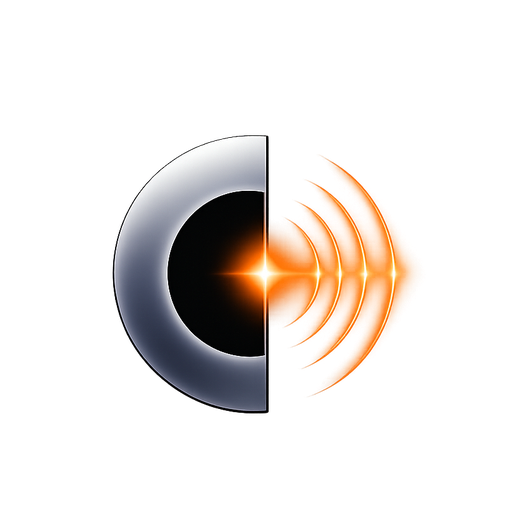
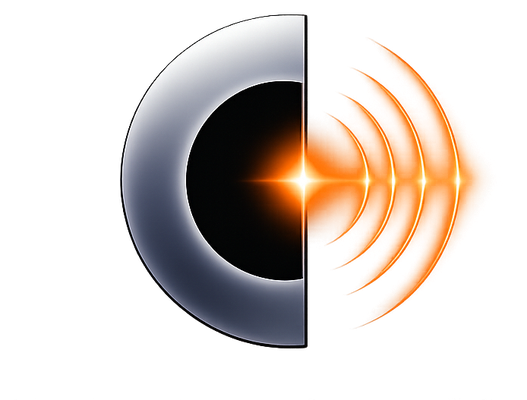
Fix: nav mark looked small — tight landscape crop + bumped sizes
Founder feedback: "it's small looks weird." Correct on both counts.
Two compounding issues in the first PNG swap:

  1. The mark was padded into a 512×512 square — ~25-30% of the
     canvas was transparent space around the actual mark. At
     30px rendered height, the visible mark content was only
     ~22px. Looked lost next to the wordmark.

  2. The mark is naturally LANDSCAPE — the sonar arcs extend to
     the right of the half-ring C, making the true bounding box
     527×400 (ratio ~1.32:1). Forcing it into a square wasted
     the right of the canvas and shrunk vertical presence.

Fixes:
  • coyl-mark.png re-cropped tight via alpha-bbox detection — no
    transparent padding. Now 527×400 landscape, mark fills the
    full canvas.
  • CoylMark uses MARK_ASPECT (527/400 = 1.3175) to compute
    width from a height target. `size` prop now means HEIGHT in
    px; width follows. No distortion, no objectFit hacks.
  • Bumped nav icon heights:
      sm: 22 → 26
      md: 30 → 36   ← the size in the founder's screenshot
      lg: 44 → 52
      xl: 60 → 72
    Mark + wordmark now visually balanced.
  • coyl-mark-square.png kept as a separate file for the favicon
    + apple-touch-icon (those need square). src/app/icon.png and
    src/app/apple-icon.png regenerated from the new square.

Net visual change: mark is ~70% larger and more present in the
nav, footer, share cards, and auth screens. Consumer API
unchanged.

Changed region(s): [[0.2188, 0.03, 0.9375, 0.87], [0.4062, 0.06, 0.4375, 0.09]]

diff --git a/apps/web/src/components/brand/logo.tsx b/apps/web/src/components/brand/logo.tsx
@@ -11,44 +11,57 @@ interface CoylLogoProps {
   theme?: 'light' | 'dark' | 'auto'
 }
 
+/**
+ * Mark intrinsic aspect ratio — the founder's mark is LANDSCAPE because
+ * the sonar arcs extend right of the C. Master PNG is 527×400 (ratio
+ * ~1.3175). When sizing the mark by height, the width follows from
+ * this constant. Centralized so callers don't have to reason about it.
+ */
+const MARK_ASPECT = 527 / 400 // ≈ 1.3175
+
+/** Convert a height target to the landscape (width, height) pair. */
+function markBox(height: number): { width: number; height: number } {
+  return { width: Math.round(height * MARK_ASPECT), height }
+}
+
 const sizes = {
-  sm: { icon: 22, text: 'text-sm', gap: 'gap-1.5' },
-  md: { icon: 30, text: 'text-lg', gap: 'gap-2' },
-  lg: { icon: 44, text: 'text-2xl', gap: 'gap-3' },
-  xl: { icon: 60, text: 'text-4xl', gap: 'gap-4' },
+  sm: { iconH: 26, text: 'text-sm', gap: 'gap-2' },
+  md: { iconH: 36, text: 'text-lg', gap: 'gap-2.5' },
+  lg: { iconH: 52, text: 'text-2xl', gap: 'gap-3' },
+  xl: { iconH: 72, text: 'text-4xl', gap: 'gap-4' },
 }
 
 /**
  * CoylMark — the founder's official COYL mark (May 24 2026 final).
  *
  * Stops the SVG iteration loop. The mark is now sourced from the
- * founder-supplied master PNG at /public/coyl-logo-full.png, cropped
- * to a square mark-only at /public/coyl-mark.png. The chrome half-C
- * with black interior, 4-point compass star, and sonar arcs are all
- * baked into the image — no in-code geometry, no theme variants, no
- * animation. If the brand identity changes, replace coyl-mark.png +
- * coyl-logo-full.png and every consumer picks it up.
+ * founder-supplied master PNG, cropped tight to the mark's alpha
+ * bounding box at /public/coyl-mark.png (527×400 landscape — the
+ * sonar arcs extend right of the half-ring C, so the natural shape
+ * is wider than tall). The chrome half-C with black interior,
+ * 4-point compass star, and sonar arcs are all baked into the
+ * image — no in-code geometry, no theme variants, no animation.
  *
  * Why PNG over SVG: the chrome-3D shading, black inner-fill, and
  * golden sonar ripples in the founder's reference are a rendered
- * piece of art, not a vector. SVG approximations of it consistently
- * came out muddy. The PNG is the source of truth.
+ * piece of art, not a vector. SVG approximations consistently came
+ * out muddy. The PNG is the source of truth.
  *
- * Animation: none. The static mark IS the brand. If we want a pulse
- * later, do it in CSS on the wrapping element (transform: scale on
- * hover) rather than re-introducing animated SVG.
+ * Sizing API: `size` = desired HEIGHT in px. Width is computed from
+ * the natural aspect ratio (no padding, no distortion). If the brand
+ * identity changes, replace coyl-mark.png + coyl-logo-full.png and
+ * every consumer picks it up.
  */
-export function CoylMark({ size = 30, className }: { size?: number; className?: string }) {
+export function CoylMark({ size = 36, className }: { size?: number; className?: string }) {
+  const { width, height } = markBox(size)
   return (
     <Image
       src="/coyl-mark.png"
       alt="COYL"
-      width={size}
-      height={size}
+      width={width}
+      height={height}
       priority
       className={cn('shrink-0 select-none', className)}
-      // Master is 512×512; the next-image optimizer downsamples to
-      // exactly the rendered size on demand.
     />
   )
 }
@@ -67,11 +80,11 @@ export function CoylLogo({
   showWordmark = true,
   size = 'md',
 }: CoylLogoProps) {
-  const { icon, text, gap } = sizes[size]
+  const { iconH, text, gap } = sizes[size]
 
   return (
     <div className={cn('flex items-center', gap, className)}>
-      <CoylMark size={icon} />
+      <CoylMark size={iconH} />
       {showWordmark && (
         <span
           className={cn(